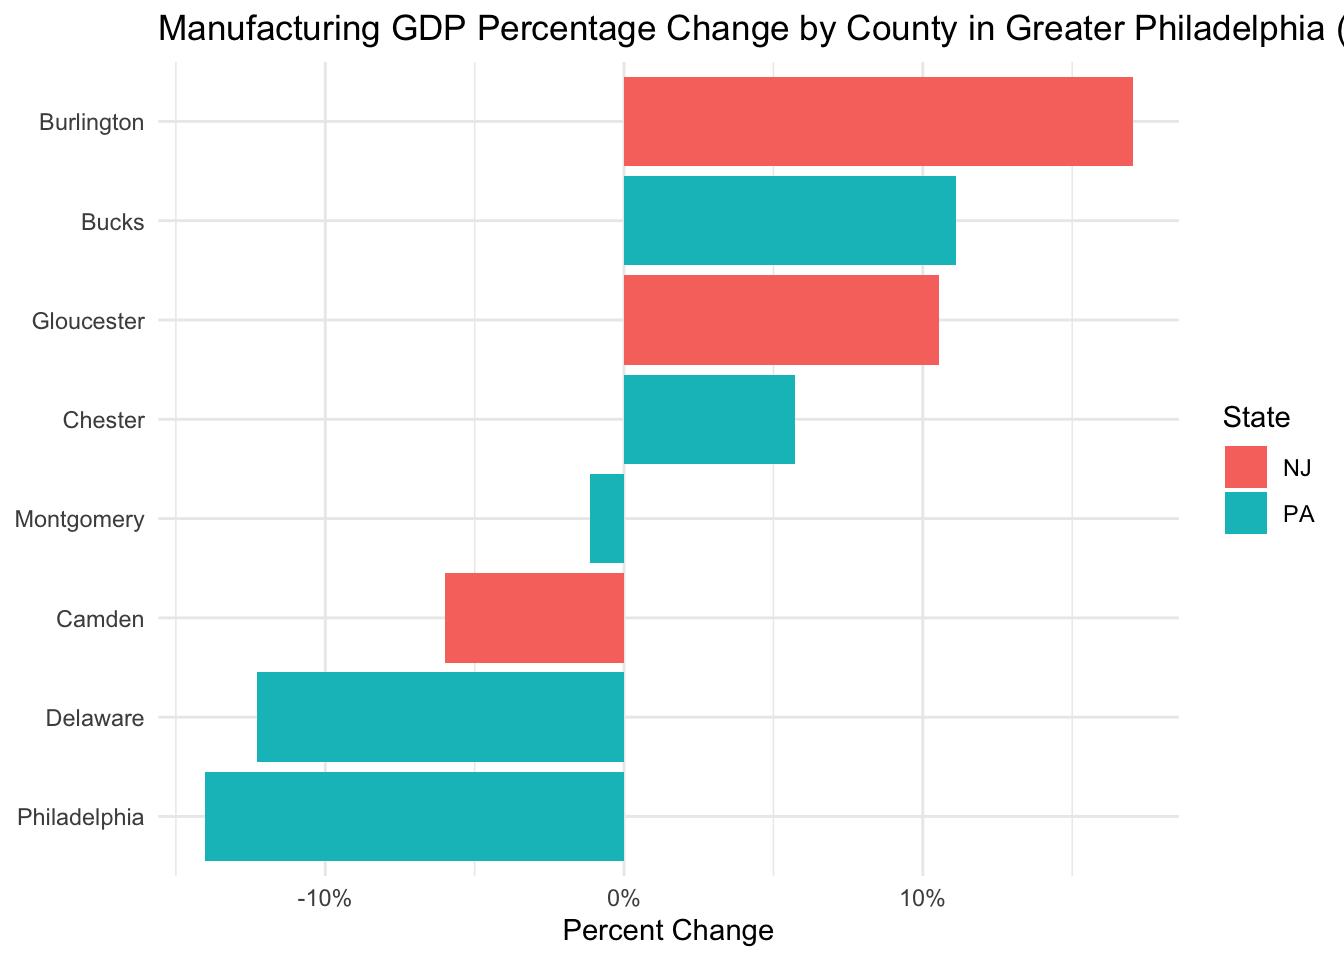
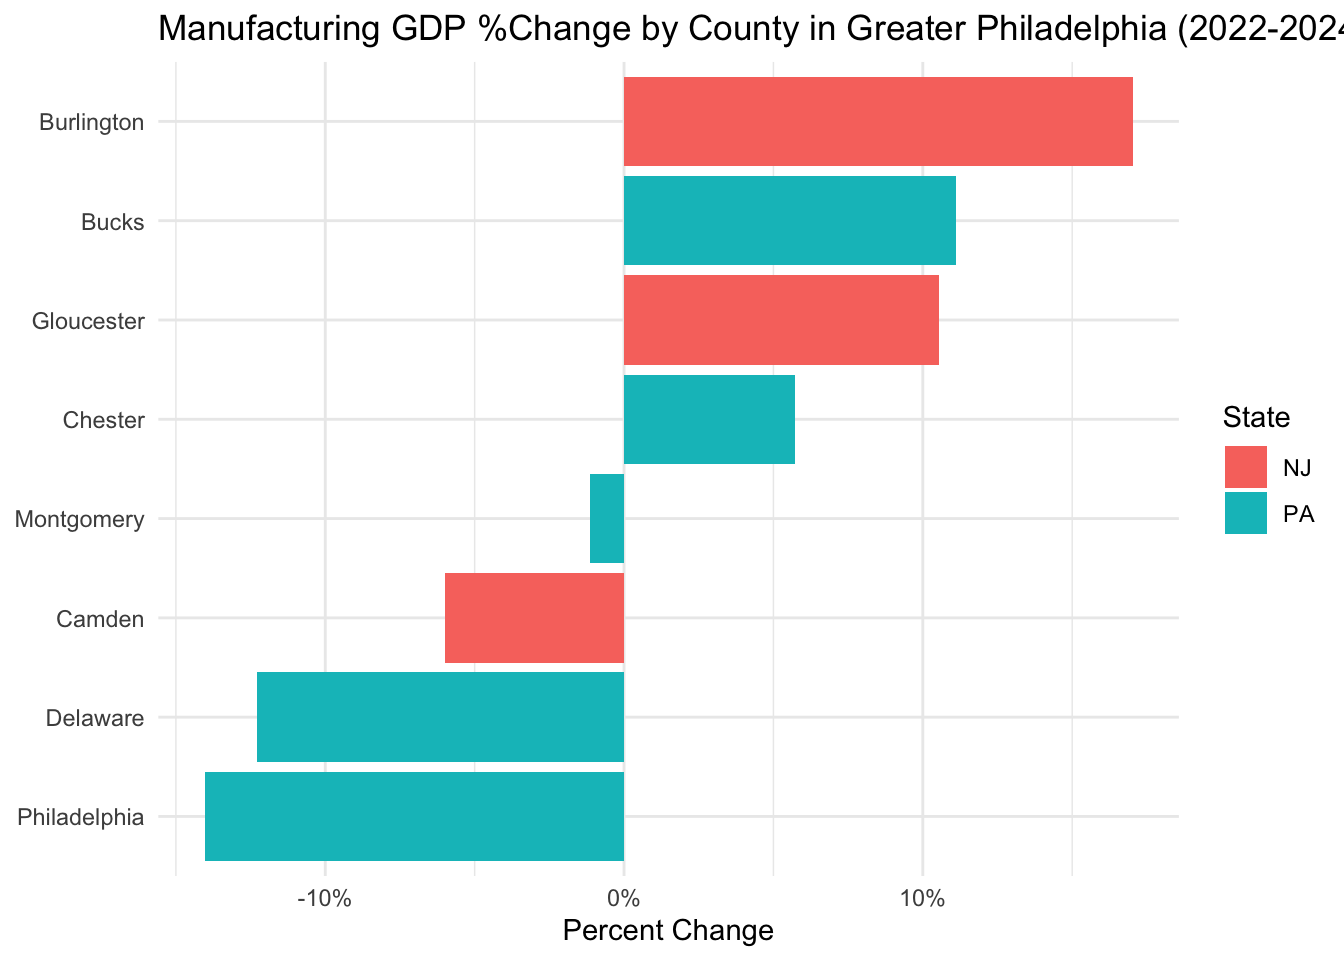
ai label

Changed region(s): [[0.3438, 0.0, 1.0, 0.0625]]

diff --git a/docs/index.html b/docs/index.html
@@ -89,16 +89,18 @@ pre > code.sourceCode > span > a:first-child::before { text-decoration: underlin
   <li><a href="#potential-impact" id="toc-potential-impact" class="nav-link" data-scroll-target="#potential-impact">Potential impact</a></li>
   <li><a href="#target-audience" id="toc-target-audience" class="nav-link" data-scroll-target="#target-audience">Target audience</a></li>
   </ul></li>
-  <li><a href="#data-findings" id="toc-data-findings" class="nav-link" data-scroll-target="#data-findings">Data findings</a>
+  <li><a href="#data-findings" id="toc-data-findings" class="nav-link" data-scroll-target="#data-findings">Data Findings</a>
   <ul class="collapse">
   <li><a href="#industry-decline-trend-cross-the-greater-philly" id="toc-industry-decline-trend-cross-the-greater-philly" class="nav-link" data-scroll-target="#industry-decline-trend-cross-the-greater-philly">Industry decline trend cross the greater Philly</a></li>
   <li><a href="#which-industry-is-pulling-delaware-countys-economy-down" id="toc-which-industry-is-pulling-delaware-countys-economy-down" class="nav-link" data-scroll-target="#which-industry-is-pulling-delaware-countys-economy-down">Which Industry Is Pulling Delaware County’s Economy Down?</a></li>
   <li><a href="#manufacturing-industry-gdp-trend-in-greater-philly" id="toc-manufacturing-industry-gdp-trend-in-greater-philly" class="nav-link" data-scroll-target="#manufacturing-industry-gdp-trend-in-greater-philly">Manufacturing industry GDP trend in greater philly</a></li>
   <li><a href="#which-manufacturing-sector-took-the-biggest-hit" id="toc-which-manufacturing-sector-took-the-biggest-hit" class="nav-link" data-scroll-target="#which-manufacturing-sector-took-the-biggest-hit">Which Manufacturing Sector Took the Biggest Hit?</a></li>
   <li><a href="#residents-income" id="toc-residents-income" class="nav-link" data-scroll-target="#residents-income">Residents income</a></li>
-  <li><a href="#potential-sources" id="toc-potential-sources" class="nav-link" data-scroll-target="#potential-sources">Potential sources</a></li>
-  <li><a href="#photos-video-graphics---how-will-you-make-this-story-visual" id="toc-photos-video-graphics---how-will-you-make-this-story-visual" class="nav-link" data-scroll-target="#photos-video-graphics---how-will-you-make-this-story-visual">Photos, video, graphics - How will you make this story visual?</a></li>
+  </ul></li>
+  <li><a href="#future-work" id="toc-future-work" class="nav-link" data-scroll-target="#future-work">Future Work</a>
+  <ul class="collapse">
   <li><a href="#what-other-information-do-you-need-to-gather" id="toc-what-other-information-do-you-need-to-gather" class="nav-link" data-scroll-target="#what-other-information-do-you-need-to-gather">What other information do you need to gather?</a></li>
+  <li><a href="#potential-sources" id="toc-potential-sources" class="nav-link" data-scroll-target="#potential-sources">Potential sources</a></li>
   <li><a href="#estimated-delivery" id="toc-estimated-delivery" class="nav-link" data-scroll-target="#estimated-delivery">Estimated delivery</a></li>
   </ul></li>
   </ul>
@@ -126,7 +128,7 @@ pre > code.sourceCode > span > a:first-child::before { text-decoration: underlin
     <div>
     <div class="quarto-title-meta-heading">Published</div>
     <div class="quarto-title-meta-contents">
-      <p class="date">2026-06-06 01:24</p>
+      <p class="date">2026-06-06 01:34</p>
     </div>
   </div>
   
@@ -235,7 +237,7 @@ pre > code.sourceCode > span > a:first-child::before { text-decoration: underlin
 </section>
 </section>
 <section id="data-findings" class="level1">
-<h1>Data findings</h1>
+<h1>Data Findings</h1>
 <section id="industry-decline-trend-cross-the-greater-philly" class="level2">
 <h2 class="anchored" data-anchor-id="industry-decline-trend-cross-the-greater-philly">Industry decline trend cross the greater Philly</h2>
 <div class="callout callout-style-default callout-note callout-titled">
@@ -273,7 +275,7 @@ pre > code.sourceCode > span > a:first-child::before { text-decoration: underlin
 <span id="cb2-13"><a href="#cb2-13" aria-hidden="true" tabindex="-1"></a>  <span class="at">x2024 =</span> <span class="fu">as.numeric</span>(x2024)</span>
 <span id="cb2-14"><a href="#cb2-14" aria-hidden="true" tabindex="-1"></a>)</span>
 <span id="cb2-15"><a href="#cb2-15" aria-hidden="true" tabindex="-1"></a></span>
-<span id="cb2-16"><a href="#cb2-16" aria-hidden="true" tabindex="-1"></a><span class="co"># AI-assisted</span></span>
+<span id="cb2-16"><a href="#cb2-16" aria-hidden="true" tabindex="-1"></a>  <span class="co"># AI-assisted</span></span>
 <span id="cb2-17"><a href="#cb2-17" aria-hidden="true" tabindex="-1"></a>greater_philly_total <span class="ot">&lt;-</span> gdp_industry <span class="sc">|&gt;</span></span>
 <span id="cb2-18"><a href="#cb2-18" aria-hidden="true" tabindex="-1"></a>  <span class="fu">filter</span>(<span class="fu">str_detect</span>(geo_name, <span class="st">"Philadelphia, PA|Montgomery, PA|Bucks, PA|Chester, PA|Delaware, PA|Gloucester, NJ|Camden, NJ|Burlington, NJ"</span>)) <span class="sc">|&gt;</span></span>
 <span id="cb2-19"><a href="#cb2-19" aria-hidden="true" tabindex="-1"></a>  <span class="fu">filter</span>(line_code <span class="sc">==</span> <span class="dv">1</span>) <span class="sc">|&gt;</span> </span>
@@ -375,13 +377,13 @@ pre > code.sourceCode > span > a:first-child::before { text-decoration: underlin
 <span id="cb6-5"><a href="#cb6-5" aria-hidden="true" tabindex="-1"></a>  <span class="fu">separate</span>(geo_name, <span class="at">into =</span> <span class="fu">c</span>(<span class="st">"county"</span>, <span class="st">"state"</span>), <span class="at">sep =</span> <span class="st">", "</span>) <span class="sc">|&gt;</span></span>
 <span id="cb6-6"><a href="#cb6-6" aria-hidden="true" tabindex="-1"></a>  <span class="fu">arrange</span>(abs_change)</span>
 <span id="cb6-7"><a href="#cb6-7" aria-hidden="true" tabindex="-1"></a></span>
-<span id="cb6-8"><a href="#cb6-8" aria-hidden="true" tabindex="-1"></a><span class="co">#AI-assister</span></span>
+<span id="cb6-8"><a href="#cb6-8" aria-hidden="true" tabindex="-1"></a>  <span class="co">#AI assisted</span></span>
 <span id="cb6-9"><a href="#cb6-9" aria-hidden="true" tabindex="-1"></a><span class="fu">ggplot</span>(philly_manufacturing, <span class="fu">aes</span>(<span class="at">x =</span> <span class="fu">reorder</span>(county, pct_24_v_22), <span class="at">y =</span> pct_24_v_22, <span class="at">fill =</span> state)) <span class="sc">+</span></span>
 <span id="cb6-10"><a href="#cb6-10" aria-hidden="true" tabindex="-1"></a>  <span class="fu">geom_col</span>() <span class="sc">+</span></span>
 <span id="cb6-11"><a href="#cb6-11" aria-hidden="true" tabindex="-1"></a>  <span class="fu">coord_flip</span>() <span class="sc">+</span></span>
 <span id="cb6-12"><a href="#cb6-12" aria-hidden="true" tabindex="-1"></a>  <span class="fu">scale_y_continuous</span>(<span class="at">labels =</span> scales<span class="sc">::</span>percent) <span class="sc">+</span></span>
 <span id="cb6-13"><a href="#cb6-13" aria-hidden="true" tabindex="-1"></a>  <span class="fu">labs</span>(</span>
-<span id="cb6-14"><a href="#cb6-14" aria-hidden="true" tabindex="-1"></a>    <span class="at">title =</span> <span class="st">"Manufacturing GDP Percentage Change by County in Greater Philadelphia (2022-2024)"</span>,</span>
+<span id="cb6-14"><a href="#cb6-14" aria-hidden="true" tabindex="-1"></a>    <span class="at">title =</span> <span class="st">"Manufacturing GDP %Change by County in Greater Philadelphia (2022-2024)"</span>,</span>
 <span id="cb6-15"><a href="#cb6-15" aria-hidden="true" tabindex="-1"></a>    <span class="at">x =</span> <span class="cn">NULL</span>,</span>
 <span id="cb6-16"><a href="#cb6-16" aria-hidden="true" tabindex="-1"></a>    <span class="at">y =</span> <span class="st">"Percent Change"</span>,</span>
 <span id="cb6-17"><a href="#cb6-17" aria-hidden="true" tabindex="-1"></a>    <span class="at">fill =</span> <span class="st">"State"</span></span>
@@ -397,18 +399,19 @@ pre > code.sourceCode > span > a:first-child::before { text-decoration: underlin
 </div>
 <details class="code-fold">
 <summary>Show code</summary>
-<div class="code-copy-outer-scaffold"><div class="sourceCode cell-code" id="cb7"><pre class="sourceCode r code-with-copy"><code class="sourceCode r"><span id="cb7-1"><a href="#cb7-1" aria-hidden="true" tabindex="-1"></a><span class="fu">ggplot</span>(philly_manufacturing, <span class="fu">aes</span>(<span class="at">x =</span> <span class="fu">reorder</span>(county, abs_change), <span class="at">y =</span>abs_change , <span class="at">fill =</span> state)) <span class="sc">+</span></span>
-<span id="cb7-2"><a href="#cb7-2" aria-hidden="true" tabindex="-1"></a>  <span class="fu">geom_col</span>() <span class="sc">+</span></span>
-<span id="cb7-3"><a href="#cb7-3" aria-hidden="true" tabindex="-1"></a>  <span class="fu">coord_flip</span>() <span class="sc">+</span></span>
-<span id="cb7-4"><a href="#cb7-4" aria-hidden="true" tabindex="-1"></a>  <span class="fu">scale_y_continuous</span>(<span class="at">labels =</span> scales<span class="sc">::</span>comma) <span class="sc">+</span></span>
-<span id="cb7-5"><a href="#cb7-5" aria-hidden="true" tabindex="-1"></a>  <span class="fu">labs</span>(</span>
-<span id="cb7-6"><a href="#cb7-6" aria-hidden="true" tabindex="-1"></a>    <span class="at">title =</span> <span class="st">"Manufacturing GDP Change by County in Greater Philadelphia (2022-2024)"</span>,</span>
-<span id="cb7-7"><a href="#cb7-7" aria-hidden="true" tabindex="-1"></a>    <span class="at">subtitle =</span> <span class="st">"In thousands of dollars"</span>,</span>
-<span id="cb7-8"><a href="#cb7-8" aria-hidden="true" tabindex="-1"></a>    <span class="at">x =</span> <span class="cn">NULL</span>,</span>
-<span id="cb7-9"><a href="#cb7-9" aria-hidden="true" tabindex="-1"></a>    <span class="at">y =</span> <span class="st">"Absolute Change"</span>,</span>
-<span id="cb7-10"><a href="#cb7-10" aria-hidden="true" tabindex="-1"></a>    <span class="at">fill =</span> <span class="st">"State"</span></span>
-<span id="cb7-11"><a href="#cb7-11" aria-hidden="true" tabindex="-1"></a>  ) <span class="sc">+</span></span>
-<span id="cb7-12"><a href="#cb7-12" aria-hidden="true" tabindex="-1"></a>  <span class="fu">theme_minimal</span>()</span></code></pre></div><button title="Copy to Clipboard" class="code-copy-button"><i class="bi"></i></button></div>
+<div class="code-copy-outer-scaffold"><div class="sourceCode cell-code" id="cb7"><pre class="sourceCode r code-with-copy"><code class="sourceCode r"><span id="cb7-1"><a href="#cb7-1" aria-hidden="true" tabindex="-1"></a>  <span class="co">#AI assisted</span></span>
+<span id="cb7-2"><a href="#cb7-2" aria-hidden="true" tabindex="-1"></a><span class="fu">ggplot</span>(philly_manufacturing, <span class="fu">aes</span>(<span class="at">x =</span> <span class="fu">reorder</span>(county, abs_change), <span class="at">y =</span>abs_change , <span class="at">fill =</span> state)) <span class="sc">+</span></span>
+<span id="cb7-3"><a href="#cb7-3" aria-hidden="true" tabindex="-1"></a>  <span class="fu">geom_col</span>() <span class="sc">+</span></span>
+<span id="cb7-4"><a href="#cb7-4" aria-hidden="true" tabindex="-1"></a>  <span class="fu">coord_flip</span>() <span class="sc">+</span></span>
+<span id="cb7-5"><a href="#cb7-5" aria-hidden="true" tabindex="-1"></a>  <span class="fu">scale_y_continuous</span>(<span class="at">labels =</span> scales<span class="sc">::</span>comma) <span class="sc">+</span></span>
+<span id="cb7-6"><a href="#cb7-6" aria-hidden="true" tabindex="-1"></a>  <span class="fu">labs</span>(</span>
+<span id="cb7-7"><a href="#cb7-7" aria-hidden="true" tabindex="-1"></a>    <span class="at">title =</span> <span class="st">"Manufacturing GDP Change by County in Greater Philadelphia (2022-2024)"</span>,</span>
+<span id="cb7-8"><a href="#cb7-8" aria-hidden="true" tabindex="-1"></a>    <span class="at">subtitle =</span> <span class="st">"In thousands of dollars"</span>,</span>
+<span id="cb7-9"><a href="#cb7-9" aria-hidden="true" tabindex="-1"></a>    <span class="at">x =</span> <span class="cn">NULL</span>,</span>
+<span id="cb7-10"><a href="#cb7-10" aria-hidden="true" tabindex="-1"></a>    <span class="at">y =</span> <span class="st">"Absolute Change"</span>,</span>
+<span id="cb7-11"><a href="#cb7-11" aria-hidden="true" tabindex="-1"></a>    <span class="at">fill =</span> <span class="st">"State"</span></span>
+<span id="cb7-12"><a href="#cb7-12" aria-hidden="true" tabindex="-1"></a>  ) <span class="sc">+</span></span>
+<span id="cb7-13"><a href="#cb7-13" aria-hidden="true" tabindex="-1"></a>  <span class="fu">theme_minimal</span>()</span></code></pre></div><button title="Copy to Clipboard" class="code-copy-button"><i class="bi"></i></button></div>
 </details>
 <div class="cell-output-display">
 <div>
@@ -518,18 +521,9 @@ pre > code.sourceCode > span > a:first-child::before { text-decoration: underlin
 </div>
 </div>
 </section>
-<section id="potential-sources" class="level2">
-<h2 class="anchored" data-anchor-id="potential-sources">Potential sources</h2>
-<ol type="1">
-<li><a href="https://www.philadelphiafed.org/our-people/ryotaro-tashiro">Ryotaro Tashiro</a>, outreach economist at the Federal Reserve Bank of Philadelphia, who tracks economic trends across the greater Philladelphia area. He is responsible for the <a href="https://www.philadelphiafed.org/surveys-and-data/regional-economic-analysis/chamber-of-commerce-for-greater-philadelphia-economic-outlook-survey">Chamber of Commerce for Greater Philadelphia Economic Outlook Survey</a>. He could provide context on the broader manufacturing decline across southeastern Pennsylvania.</li>
-<li><a href="https://www.delcopa.org/ida">Brian C. Eury</a>, Chair of Delaware County Industrial Development Authority, who could speak to what industries the county has tried to attract and whether any economic diversification strategies are underway. (610) 566-2225</li>
-<li>Todd Farally, president of the <a href="https://paaflcio.org/delaware-county-afl-cio-council/about-us">Delaware County Central Labor Council, AFL-CIO</a>, , who could speak to job losses across the county’s manufacturing sector</li>
-</ol>
 </section>
-<section id="photos-video-graphics---how-will-you-make-this-story-visual" class="level2">
-<h2 class="anchored" data-anchor-id="photos-video-graphics---how-will-you-make-this-story-visual">Photos, video, graphics - How will you make this story visual?</h2>
-<p>Graphics</p>
-</section>
+<section id="future-work" class="level1">
+<h1>Future Work</h1>
 <section id="what-other-information-do-you-need-to-gather" class="level2">
 <h2 class="anchored" data-anchor-id="what-other-information-do-you-need-to-gather">What other information do you need to gather?</h2>
 <ul>
@@ -538,6 +532,14 @@ pre > code.sourceCode > span > a:first-child::before { text-decoration: underlin
 <li>Specific factory closure records from Pennsylvania WARN notices to identify which employers cut jobs during this period.</li>
 <li>Union activity data, including strike records and contract outcomes, to understand whether workers retained bargaining power as manufacturing shrank.</li>
 </ul>
+</section>
+<section id="potential-sources" class="level2">
+<h2 class="anchored" data-anchor-id="potential-sources">Potential sources</h2>
+<ol type="1">
+<li><a href="https://www.philadelphiafed.org/our-people/ryotaro-tashiro">Ryotaro Tashiro</a>, outreach economist at the Federal Reserve Bank of Philadelphia, who tracks economic trends across the greater Philladelphia area. He is responsible for the <a href="https://www.philadelphiafed.org/surveys-and-data/regional-economic-analysis/chamber-of-commerce-for-greater-philadelphia-economic-outlook-survey">Chamber of Commerce for Greater Philadelphia Economic Outlook Survey</a>. He could provide context on the broader manufacturing decline across southeastern Pennsylvania.</li>
+<li><a href="https://www.delcopa.org/ida">Brian C. Eury</a>, Chair of Delaware County Industrial Development Authority, who could speak to what industries the county has tried to attract and whether any economic diversification strategies are underway. (610) 566-2225</li>
+<li>Todd Farally, president of the <a href="https://paaflcio.org/delaware-county-afl-cio-council/about-us">Delaware County Central Labor Council, AFL-CIO</a>, , who could speak to job losses across the county’s manufacturing sector</li>
+</ol>
 </section>
 <section id="estimated-delivery" class="level2">
 <h2 class="anchored" data-anchor-id="estimated-delivery">Estimated delivery</h2>